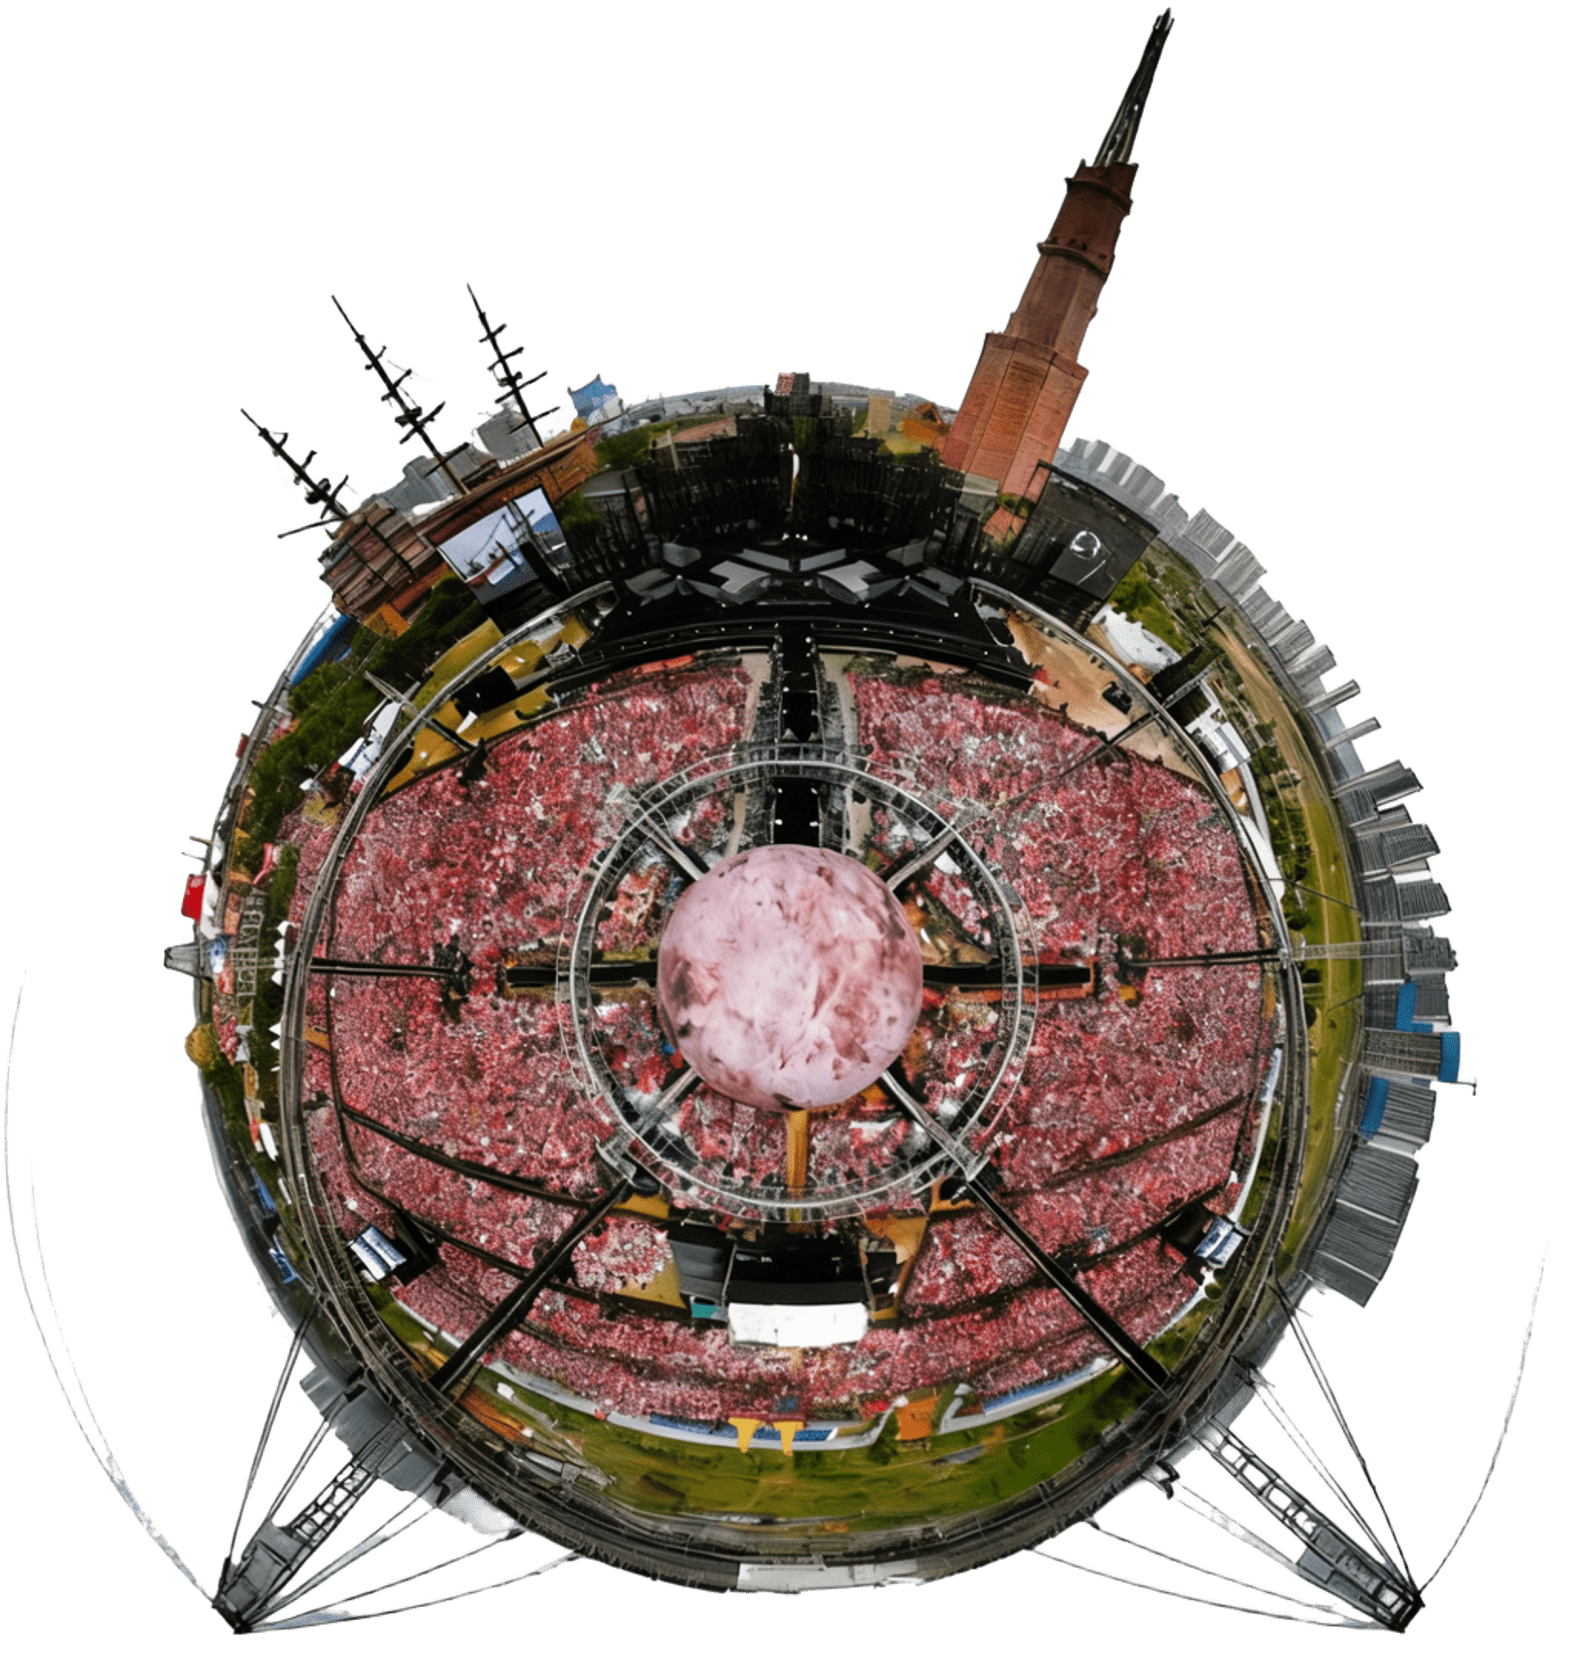
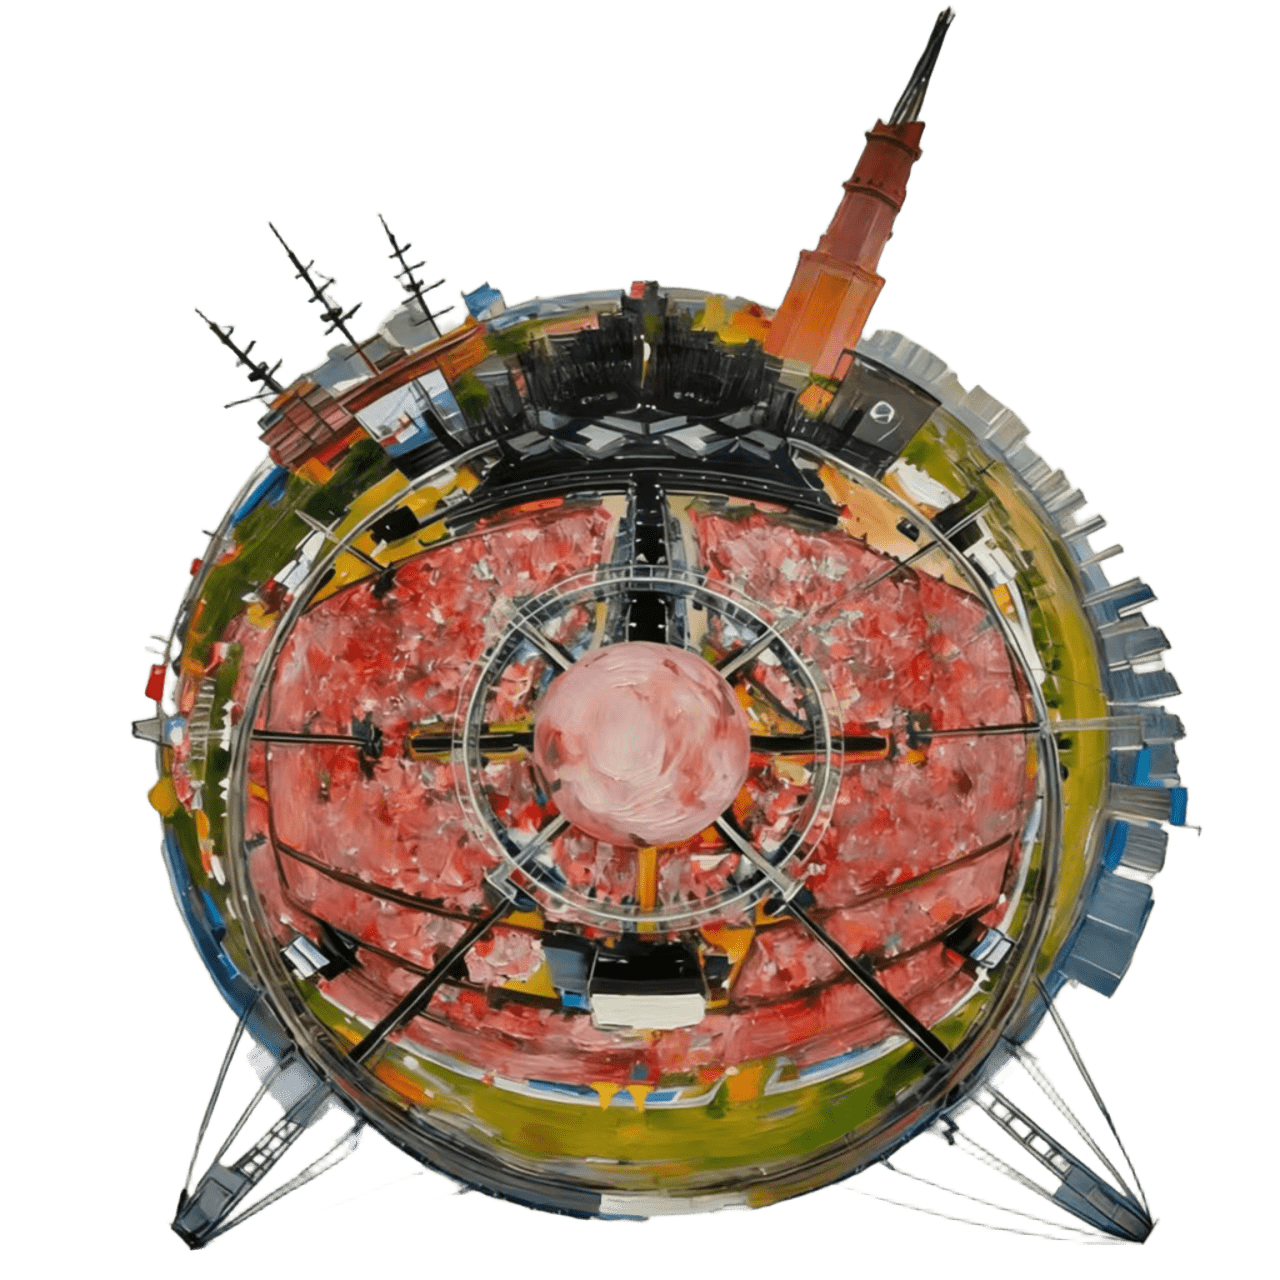
1207

diff --git a/app/pages/index.vue b/app/pages/index.vue
@@ -2,9 +2,7 @@
   <div class="bg-[#000]">
     <div v-loading="false" class="bg-[#000] overflow-x-hidden">
       <!-- 第一屏 -->
-      <div
-        class="w-[100vw] h-[100vh] bg-[url('@/assets/svg/bg1.svg')] bg-no-repeat bg-cover overflow-y-hidden"
-      >
+      <div class="w-[100vw] h-[100vh] bg-[url('@/assets/svg/bg1.svg')] bg-no-repeat bg-cover overflow-y-hidden">
         <div class="flex items-center justify-center">
           <img src="../assets/img/图片1.png" alt="" class="w-[95vw]" />
         </div>
@@ -19,13 +17,8 @@
     </el-affix>
     <div class="w-full overflow-hidden bg-black">
       <div class="flex animate-scroll">
-        <img
-          v-for="i in 6"
-          :key="i"
-          src="../assets/img/-logo1-ezgif.com-gif-to-avif-converter (1).avif"
-          alt=""
-          class="h-[15vh] shrink-0"
-        />
+        <img v-for="i in 6" :key="i" src="../assets/img/-logo1-ezgif.com-gif-to-avif-converter (1).avif" alt=""
+          class="h-[15vh] shrink-0" />
       </div>
     </div>
     <!-- 第二屏 -->
@@ -34,9 +27,7 @@
         <div class="huachenyu-text text-[#ff8331] text-[3.5vw]">
           【2016】MAMA(Mnet亚洲音乐大奖)亚洲最佳艺人（中国）
         </div>
-        <div
-          class="huachenyu-text text-[#fff] text-[2.7vw] top-[80px] right-[20px]"
-        >
+        <div class="huachenyu-text text-[#fff] text-[2.7vw] top-[80px] right-[20px]">
           【2018】首位在鸟巢连开两场演唱会的90后歌手
         </div>
         <div class="huachenyu-text text-[#fff] text-[2.4vw] top-[80px]">
@@ -45,17 +36,13 @@
         <div class="huachenyu-text text-[#fff] text-[2.6vw] top-[150px]">
           【2021】火星演唱会总导演
         </div>
-        <div
-          class="huachenyu-text text-[#ff8331] text-[3.7vw] top-[150px] right-[20px]"
-        >
+        <div class="huachenyu-text text-[#ff8331] text-[3.7vw] top-[150px] right-[20px]">
           【2024】举办万人海边日出演唱会
         </div>
         <div class="huachenyu-text text-[#ff8331] text-[2.7vw] top-[230px]">
           【2014】首登央视春晚舞台
         </div>
-        <div
-          class="huachenyu-text text-[#ff8331] text-[2.5vw] top-[300px] w-[26vw]"
-        >
+        <div class="huachenyu-text text-[#ff8331] text-[2.5vw] top-[300px] w-[26vw]">
           【2016】亚洲新歌榜最佳男歌手奖
         </div>
       </div>
@@ -69,9 +56,7 @@
     <!-- <div class="flex items-center justify-center">
       <div class="w-[20vw] aspect-[.76] bg-[url('@/assets/img/cover.png')] bg-cover"></div>
      </div> -->
-    <!-- <div>
-      <Picture />
-    </div> -->
+
     <div>
       <client-only>
         <ConcertMap />
@@ -80,9 +65,7 @@
     <div>
       <img src="@/assets/img/divider.png" alt="" class="w-full" />
     </div>
-    <div
-      class="h-[80vh] overflow-x-hidden bg-[url('@/assets/img/fangge.jpg')] pt-[50px]"
-    >
+    <div class="h-[80vh] overflow-x-hidden bg-[url('@/assets/img/fangge.jpg')] pt-[50px]">
       <div class="w-full h-max">
         <Border></Border>
       </div>
@@ -92,32 +75,25 @@
     </div>
 
     <div class="w-full bg-[#141415]">
-      <div class="w-full flex justify-center py-[250px]">
+      <div class="w-full flex justify-center pt-[200px] pb-[100px]">
         <!-- <Novel></Novel> -->
         <Modeling />
       </div>
     </div>
     <div>
-      <img
-        src="@/assets/img/world.png"
-        class="w-[20vw] animate-spin slow-spin"
-        alt=""
-      />
+      <Picture />
     </div>
 
     <!-- <div class="translate-y-[-50%]"><img src="../assets/img/—Pngtree—ripped paper edge element set_8988019.png" alt="" class="w-full"></div> -->
     <ClientOnly>
       <div class="relative w-full overflow-hidden rounded-lg">
-        <FlickeringGrid
+        <div>
+          <img src="@/assets/img/world.png" class="w-[30vw] animate-spin slow-spin" alt="" />
+        </div>
+        <!-- <FlickeringGrid
           class="relative inset-0 z-0 [mask-image:radial-gradient(450px_circle_at_center,white,transparent)]"
-          :square-size="4"
-          :grid-gap="6"
-          color="#60A5FA"
-          :max-opacity="0.5"
-          :flicker-chance="0.1"
-          :width="2000"
-          :height="800"
-        />
+          :square-size="4" :grid-gap="6" color="#60A5FA" :max-opacity="0.5" :flicker-chance="0.1" :width="2000"
+          :height="800" /> -->
       </div>
     </ClientOnly>
 
@@ -158,6 +134,6 @@ import { onMounted, onUnmounted, ref } from "vue";
 
 .slow-spin {
   transform-origin: 50% 60%;
-  animation-duration: 12s;
+  animation-duration: 30s;
 }
 </style>

diff --git a/app/components/Modeling/index.vue b/app/components/Modeling/index.vue
@@ -1,18 +1,45 @@
 <template>
-  <div class="grid grid-cols-8 gap-4 w-max">
-    <div
-      v-for="(item, index) in list"
-      :key="index"
-      class="bg-[#3d7af9] p-[10px] rounded-[10px] relative"
-    >
-      <img
-        :src="$pb.files.getUrl(item, item?.image, { thumb: '152x228' })"
-        class="rounded-[10px]"
-      />
-      <!-- <div class="text-[#fff] text-[12px] mt-[4px]">编号:{{ item?.id }}</div> -->
-      <div class="flex justify-between items-center">
-        <div class="text-[#fff] text-[12px] mt-[4px]">票数：{{ item?.votes }}</div>
-        <div><el-rate v-model="values[index]" :disabled="isDisabled" :max="1" @change="(val) => handleChange(val, index)" /></div>
+  <div>
+    <div class="relative w-full">
+      <div class="text-[100px] absolute top-0 left-0 z-[1] w-full flex justify-center"
+        style="font-family: 'zhengkuHeavy'">
+        <span class="text-[#005feb]" style="
+              text-shadow: -3px -3px 0 #fff, 3px -3px 0 #fff, -3px 3px 0 #fff,
+                3px 3px 0 #fff, -3px 0px 0 #fff, 3px 0px 0 #fff, 0px -3px 0 #fff,
+                0px 3px 0 #fff;
+            ">2025年造型</span>
+        <span class="text-[#ffb202]" style="
+              text-shadow: -3px -3px 0 #fff, 3px -3px 0 #fff, -3px 3px 0 #fff,
+                3px 3px 0 #fff, -3px 0px 0 #fff, 3px 0px 0 #fff, 0px -3px 0 #fff,
+                0px 3px 0 #fff;
+            ">十佳投票</span>
+      </div>
+      <div class="text-[100px] absolute top-[10px] left-0 z-[0]  w-full flex justify-center"
+        style="font-family: 'zhengkuHeavy'">
+        <span class="text-[#47f3ff]" style="
+              text-shadow: -3px -3px 0 #fff, 3px -3px 0 #fff, -3px 3px 0 #fff,
+                3px 3px 0 #fff, -3px 0px 0 #fff, 3px 0px 0 #fff, 0px -3px 0 #fff,
+                0px 3px 0 #fff;
+            ">2025年造型</span>
+        <span class="text-[#fa7c2f]" style="
+              text-shadow: -3px -3px 0 #fff, 3px -3px 0 #fff, -3px 3px 0 #fff,
+                3px 3px 0 #fff, -3px 0px 0 #fff, 3px 0px 0 #fff, 0px -3px 0 #fff,
+                0px 3px 0 #fff;
+            ">十佳投票</span>
+      </div>
+    </div>
+    <div class=" mt-[200px]">
+      <div class="text-[#fff] text-[12px] mb-[20px]">图片来源于“华晨宇工作室”官方微博</div>
+      <div class="grid grid-cols-8 gap-4 w-max">
+        <div v-for="(item, index) in list" :key="index" class="rounded-[10px] relative">
+          <img :src="$pb.files.getUrl(item, item?.image, { thumb: '152x228' })" class="rounded-[10px]" />
+          <!-- <div class="text-[#fff] text-[12px] mt-[4px]">编号:{{ item?.id }}</div> -->
+          <div class="flex justify-between items-center">
+            <div class="text-[#fff] text-[12px] mt-[4px]">票数：{{ item?.votes }}</div>
+            <div><el-rate v-model="values[index]" :disabled="isDisabled" :max="1"
+                @change="(val) => handleChange(val, index)" /></div>
+          </div>
+        </div>
       </div>
     </div>
   </div>
@@ -22,7 +49,7 @@
 const { $pb } = useNuxtApp();
 const values = ref<number[]>([]);
 const list = ref([]);
-const isDisabled = computed(()=>{
+const isDisabled = computed(() => {
   if (values.value.filter(item => item === 1).length >= 3) {
     return true;
   }
